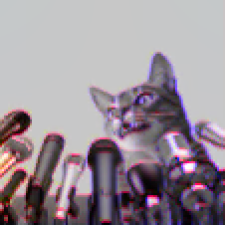
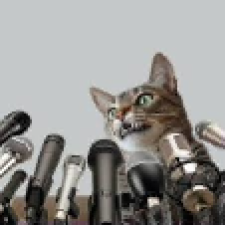
bug consertado das larguras e alturas ímpares

Changed region(s): [[0.0, 0.2178, 1.0, 1.0], [0.3733, 0.4044, 0.4356, 0.4667]]

diff --git a/main.py b/main.py
@@ -71,7 +71,7 @@ if __name__ == "__main__":
                         plt.axis('off')
                         plt.show()
 
-                    img_rec = rec.color_recover(img_text)
+                    img_rec = rec.color_recover(img_text, img.shape)
 
                     cv2.imwrite('Crominâncias/Y%s' % fl[8:], img_rec[:, :, 0])
                     cv2.imwrite('Crominâncias/Cr%s' % fl[8:], img_rec[:, :, 1])
@@ -135,20 +135,20 @@ if __name__ == "__main__":
                     k = int(input("Qual a ordem do resize?\n"))
                     print("Simulando distorção por impressão...")
 
-                    img = cv2.imread('Texturizadas/%s' % img_name, 0)
-                    if img is None:
+                    img_text = cv2.imread('Texturizadas/%s' % img_name, 0)
+                    if img_text is None:
                         print("Imgagem %s não encontrada na pasta Texturizadas" % img_name)
                         exit(1)
 
-                    img = sdist.print_scan(img, k)
-                    cv2.imwrite('Texturizadas/%s' % img_name, img)
+                    img_text = sdist.print_scan(img_text, k)
+                    cv2.imwrite('Texturizadas/%s' % img_name, img_text)
 
                 img_text = cv2.imread('Texturizadas/%s' % img_name, 0)
                 if img_text is None:
                     print("Imagem %s não encontrada na pasta Texturizadas" % img_name)
                     exit(1)
 
-                img_rec = rec.color_recover(img_text)
+                img_rec = rec.color_recover(img_text, img.shape)
 
                 cv2.imwrite('Crominâncias/Y%s' % img_name, img_rec[:, :, 0])
                 cv2.imwrite('Crominâncias/Cr%s' % img_name, img_rec[:, :, 1])
@@ -176,7 +176,7 @@ if __name__ == "__main__":
                         psnr /= 3
         
                         print("O valor Peak-SNR obtido foi:")
-                        print("%.3f" % psnr)                
+                        print("%.3f" % psnr)               
                 #else:
                 #        print("\nPor favor, verifique se digitou o nome da")
                 #        print("imagem corretamente e se ela está na pasta Imagens")

diff --git a/color_recovering.py b/color_recovering.py
@@ -4,7 +4,7 @@ import pywt
 import color_incorporation as inc
 
 # Função que faz todo o procedimento inverso
-def color_recover(img_text):
+def color_recover(img_text, size):
 
         # img_text = np.float32(img_text)
 
@@ -22,8 +22,8 @@ def color_recover(img_text):
         # redimensiona o Cb e o Cr
         #Cb = cv2.resize(Cb, dsize=(2 * Cb.shape[1], 2 * Cb.shape[0]), interpolation=cv2.INTER_AREA)        
         #Cr = cv2.resize(Cr, dsize=(2 * Cr.shape[1], 2 * Cr.shape[0]), interpolation=cv2.INTER_AREA)
-        Cb = cv2.resize(Cb, dsize=(img_text.shape[1], img_text.shape[0]), interpolation=cv2.INTER_AREA)
-        Cr = cv2.resize(Cr, dsize=(img_text.shape[1], img_text.shape[0]), interpolation=cv2.INTER_AREA)
+        Cb = cv2.resize(Cb, dsize=(size[1], size[0]), interpolation=cv2.INTER_AREA)
+        Cr = cv2.resize(Cr, dsize=(size[1], size[0]), interpolation=cv2.INTER_AREA)
 
         CH1 = np.zeros((CH1.shape[0], CH1.shape[1]))
         CV1 = np.zeros((CV1.shape[0], CV1.shape[1]))
@@ -35,10 +35,10 @@ def color_recover(img_text):
         Y = pywt.waverec2(Coef, 'db1')
 
         #garante que o Y possua o mesmo tamanho da imagem texturizada
-        Y = cv2.resize(Y, dsize=(img_text.shape[1], img_text.shape[0]), interpolation=cv2.INTER_AREA)
+        Y = cv2.resize(Y, dsize=(size[1], size[0]), interpolation=cv2.INTER_AREA)
 
         #faz o merge dos três canais
-        YCrCb = np.zeros((Y.shape[0], Y.shape[1], 3), np.float32)
+        YCrCb = np.zeros((size[0], size[1], 3), np.float32)
         YCrCb[:, :, 0] = Y
         YCrCb[:, :, 1] = Cr
         YCrCb[:, :, 2] = Cb

diff --git a/color_incorporation.py b/color_incorporation.py
@@ -78,6 +78,6 @@ def color_incorporation(img):
 
     #redimensionar para o tamanho correto depois da transformada inversa
     #garante que a imagem texturizada tenha o mesmo tamanho da original
-    img_back = cv2.resize(img_back, (img.shape[1], img.shape[0]), interpolation=cv2.INTER_AREA)
+    #img_back = cv2.resize(img_back, (img.shape[1], img.shape[0]), interpolation=cv2.INTER_AREA)
 
     return img_back
